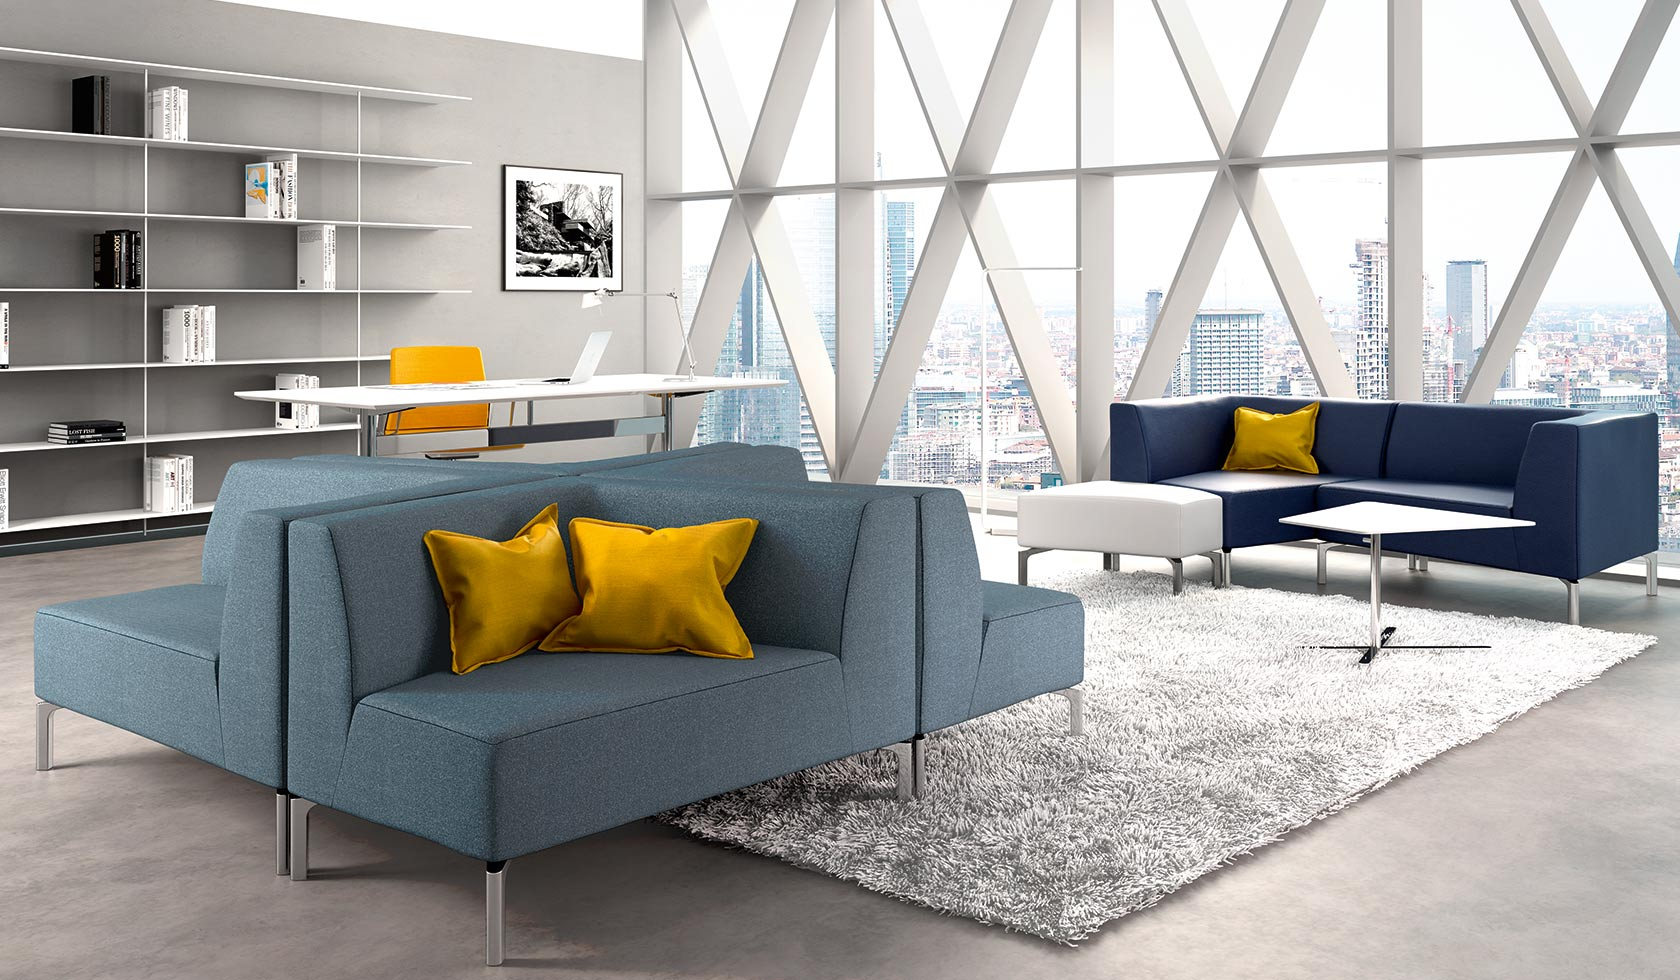
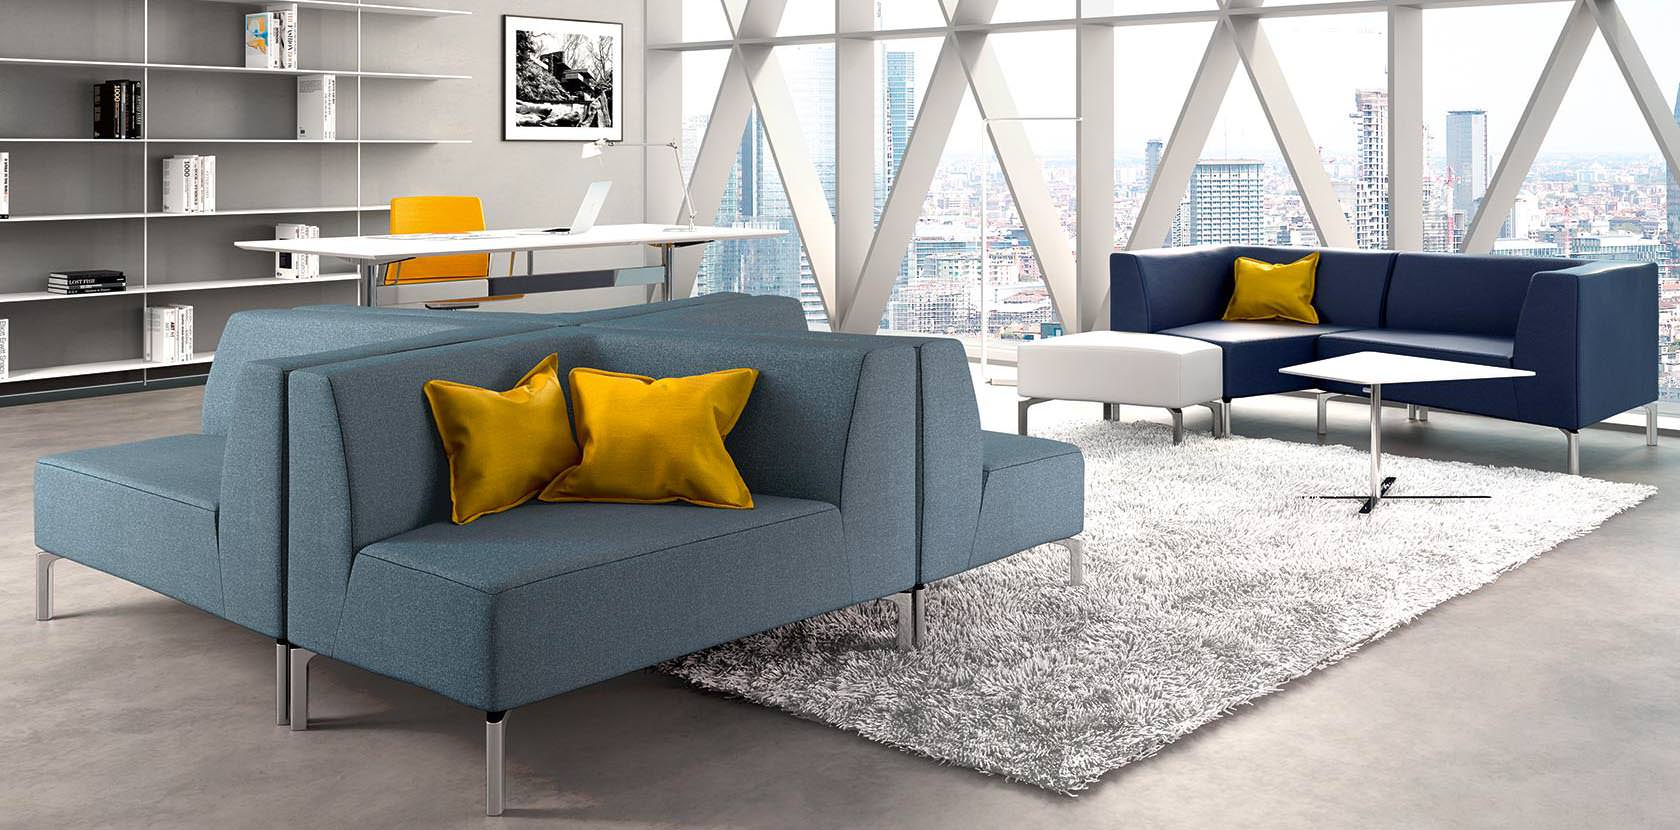
optimized and reduced the size of some images. Also added google analytics custom event listeners

diff --git a/css/app.css b/css/app.css
@@ -805,6 +805,7 @@ body {
           flex-basis: 450px; }
 
 .navigation__link {
+  cursor: pointer;
   display: inline-block; }
   .navigation__link.active .navigation__item {
     color: silver; }
@@ -897,13 +898,13 @@ body {
       color: #3D68E8; } }
 .slideshow__wrapper {
   width: 100%;
-  min-height: 980px;
+  min-height: 830px;
   margin: 0 auto; }
 
 .slideshow__slides {
   top: 0;
   left: 0;
-  min-height: 980px;
+  min-height: 830px;
   width: 100%;
   height: auto;
   background-position-x: 0;

diff --git a/sass/components/_slides.scss b/sass/components/_slides.scss
@@ -1,13 +1,13 @@
 .slideshow__wrapper{
 	width:100%;
-	min-height:980px;
+	min-height:830px;
 	margin:0 auto;
 }
 
 .slideshow__slides{
 	top:0;
 	left:0;
-	min-height:980px;
+	min-height:830px;
 	width: 100%;
 	height: auto;
 	background-position-x: 0;

diff --git a/sass/components/_navigation.scss b/sass/components/_navigation.scss
@@ -26,6 +26,7 @@
 }
 
 .navigation__link{
+	cursor:pointer;
 	display:inline-block;
 	&.active{
 		.navigation__item{

diff --git a/partials/contacts.php b/partials/contacts.php
@@ -11,8 +11,8 @@
 					<div class="bgContact__caption bgContact__caption--light">
 						<p class="bgContact__address">Aflao Road, Opposite Shell station</p>					
 						<ul class="bgContact__buttonList">
-							<li class="bgContact__button">+233 303300121</li>
-							<li class="bgContact__button bgContact__button--inverse"><a target="_blank" href="https://www.google.com.gh/maps/place/Blue+Gallery+Home+%26+Office+Furniture/@5.688309,-0.0131917,17z/data=!3m1!4b1!4m2!3m1!1s0xfdf80629b203513:0xc882e55521da4358">Map</a></li>
+							<li class="bgContact__button" onclick="ga('send', 'event', 'action', 'call' , 'Accra')">+233 303300121</li>
+							<li class="bgContact__button bgContact__button--inverse" onclick="ga('send', 'event', 'action', 'click' , 'Accra Map')"><a target="_blank" href="https://www.google.com.gh/maps/place/Blue+Gallery+Home+%26+Office+Furniture/@5.688309,-0.0131917,17z/data=!3m1!4b1!4m2!3m1!1s0xfdf80629b203513:0xc882e55521da4358">Map</a></li>
 						</ul>
 					</div>
 				</div>
@@ -24,8 +24,8 @@
 					<div class="bgContact__caption">
 						<p class="bgContact__address">Max Mart Shopping Centre. Near Military 37 Hospital</p>					
 						<ul class="bgContact__buttonList">
-							<li class="bgContact__button">+233 264672320</li>
-							<li class="bgContact__button bgContact__button--inverse"><a target="_blank" href="https://www.google.com.gh/maps/place/MaxMart+37/@5.5912118,-0.1827627,17z/data=!3m1!4b1!4m2!3m1!1s0xfdf9af0f042678d:0x221a17e53ebbdebf">Map</a></li>
+							<li class="bgContact__button" onclick="ga('send', 'event', 'action', 'call' , 'Tema')">+233 264672320</li>
+							<li class="bgContact__button bgContact__button--inverse" onclick="ga('send', 'event', 'action', 'click' , 'Tema Map')""><a target="_blank" href="https://www.google.com.gh/maps/place/MaxMart+37/@5.5912118,-0.1827627,17z/data=!3m1!4b1!4m2!3m1!1s0xfdf9af0f042678d:0x221a17e53ebbdebf">Map</a></li>
 						</ul>
 					</div>
 				</div>
@@ -38,10 +38,10 @@
 				<p>On Social Media</p>
 			</div>
 			<ul class="social_media">
-				<li><a href="https://facebook.com/blue.gallery.ghana"><img src="img/socialmediaicons/facebook.png" alt="Blue Gallery on Facebook"></a></li>
-				<li><a href="https://pinterest.com/bluegallery"><img src="img/socialmediaicons/pinterest.png" alt="Blue Gallery on Pinterest"></a></li>
-				<li><a href="https://twitter.com/blue_gallery"><img src="img/socialmediaicons/twitter.png" alt="Blue Gallery on Twitter"></a></li>
-				<li><a href="https://instagram.com/bluegallery_ghana"><img src="img/socialmediaicons/instagram.png" alt="Blue Gallery on Instagram"></a></li>
+				<li><a href="https://facebook.com/blue.gallery.ghana"><img src="img/socialmediaicons/facebook.png" alt="Blue Gallery on Facebook" onclick="ga('send', 'event', 'exit link', 'social media' , 'facebook')"></a></li>
+				<li><a href="https://pinterest.com/bluegallery"><img src="img/socialmediaicons/pinterest.png" alt="Blue Gallery on Pinterest" onclick="ga('send', 'event', 'exit link', 'social media' , 'pinterest')"></a></li>
+				<li><a href="https://twitter.com/blue_gallery"><img src="img/socialmediaicons/twitter.png" alt="Blue Gallery on Twitter" onclick="ga('send', 'event', 'exit link', 'social media' , 'twitter')"></a></li>
+				<li><a href="https://instagram.com/bluegallery_ghana"><img src="img/socialmediaicons/instagram.png" alt="Blue Gallery on Instagram" onclick="ga('send', 'event', 'exit link', 'social media' , 'instagram')"></a></li>
 			</ul>
 		</div>
 	</div>

diff --git a/partials/customers.php b/partials/customers.php
@@ -7,17 +7,22 @@
 		<div class="customer_logos clearfix">
 			<img src="img/customerslogos/accra_brewery.png" height="50px" width="61.5px" >
 			<img src="img/customerslogos/ecobank.png" height="50px" width="115px">
-			<img src="img/customerslogos/alisa_hotels.png" height="50px" width="53px">
 			<img src="img/customerslogos/barclays.png" height="50px" width="151px">
+			<img src="img/customerslogos/tullow.png" height="50px" width="auto" alt="">
 			<img src="img/customerslogos/desimone.png" height="50px" width="44.5px">
 			<img src="img/customerslogos/eni.png" height="50px" width="41px">
 			<img src="img/customerslogos/silver_star.png" height="50px" width="155px">
-			<img src="img/customerslogos/gt_bank.png" height="50px" height="50px">
-			<img src="img/customerslogos/cocobod.png" height="50px" height="100px">
-			<img src="img/customerslogos/first-atlantic.png" height="50px" height="50px">
-			<img src="img/customerslogos/gridco.png" height="50px" height="188.5px">
-			<img src="img/customerslogos/zenith.png" height="50px" height="54px">
-			<img src="img/customerslogos/interplast.png" height="50px" height="144.5px">
+			<img src="img/customerslogos/gt_bank.png" height="50px" width="auto">
+			<img src="img/customerslogos/cocobod.png" height="50px" width="auto">
+			<img src="img/customerslogos/first-atlantic.png" height="50px" width="auto">
+			<img src="img/customerslogos/gridco.png" height="50px" width="auto">
+			<img src="img/customerslogos/zenith.png" height="50px" width="auto">
+			<img src="img/customerslogos/kosmos.png" height="50px" width="auto">
+			<img src="img/customerslogos/alisa_hotels.png" height="50px" width="53px">
+			<img src="img/customerslogos/societegenerale.png" height="50px" width="50px" >
+			<img src="img/customerslogos/queiroz.png" height="50px" widht="auto" alt="">
+			<img src="img/customerslogos/interplast.png" height="50px" width="auto">
+			<img src="img/customerslogos/vitol.png" height="50px" width"="auto" alt="">
 		</div>
 	</div>
 </div>

diff --git a/partials/navigation.php b/partials/navigation.php
@@ -1,10 +1,10 @@
 <nav class="navigation" role="navigation">
-			<ul id="lbmenu" class="navigation__list">
-				<li menuanchor="home" class="navigation__link active"><a class="navigation__item" href="#home">Home</a></li>
-				<li menuanchor="lb_collection" class="navigation__link"><a class="navigation__item" href="#lb_collection">Collection</a></li>
-				<li menuanchor="brands" class="navigation__link"><a class="navigation__item" href="#brands">Brands</a></li>
-				<li menuanchor="projects" class="navigation__link"><a class="navigation__item" href="#projects">Projects</a></li>
-				<li menuanchor="contact" class="navigation__link"><a class="navigation__item on-modal navigation--highlight" href="#contact">Contact Us</a></li>
-			</ul>
+	<ul id="lbmenu" class="navigation__list">
+		<li menuanchor="home" class="navigation__link active"><a class="navigation__item" href="#home" onclick="ga('send', 'event', 'navigation', 'jump to' , 'home')">Home</a></li>
+		<li menuanchor="lb_collection" class="navigation__link"><a class="navigation__item" href="#lb_collection" onclick="ga('send', 'event', 'navigation', 'jump to' , 'collection')">Collection</a></li>
+		<li menuanchor="brands" class="navigation__link"><a class="navigation__item" href="#brands" onclick="ga('send', 'event', 'navigation', 'jump to' , 'brand')">Brands</a></li>
+		<li menuanchor="projects" class="navigation__link"><a class="navigation__item" href="#projects" onclick="ga('send', 'event', 'navigation', 'jump to' , 'Projects')">Projects</a></li>
+		<li menuanchor="contact" class="navigation__link"><a class="navigation__item on-modal navigation--highlight" href="#contact" onclick="ga('send', 'event', 'navigation', 'jump to' , 'Contact')">Contact Us</a></li>
+	</ul>
 </nav>
 <div class="navigation__mobile_toggle">Menu</div>

diff --git a/partials/header.php b/partials/header.php
@@ -1,7 +1,7 @@
 <div class="header__outer_wrapper">
 	<div class="layout__inner">
 		<div class="header__wrapper">
-			<h1 class="header__logo" title="Welcome To Blue Gallery"></h1>
+			<h1 class="header__logo navigation__link" menuanchor="home" title="Welcome To Blue Gallery" onclick="ga('send', 'event', 'navigation', 'jump to' , 'contacts (from hero button)')"></h1>
 			<?php include_once($path . '/partials/navigation.php'); ?>
 		</div>
 	</div>
